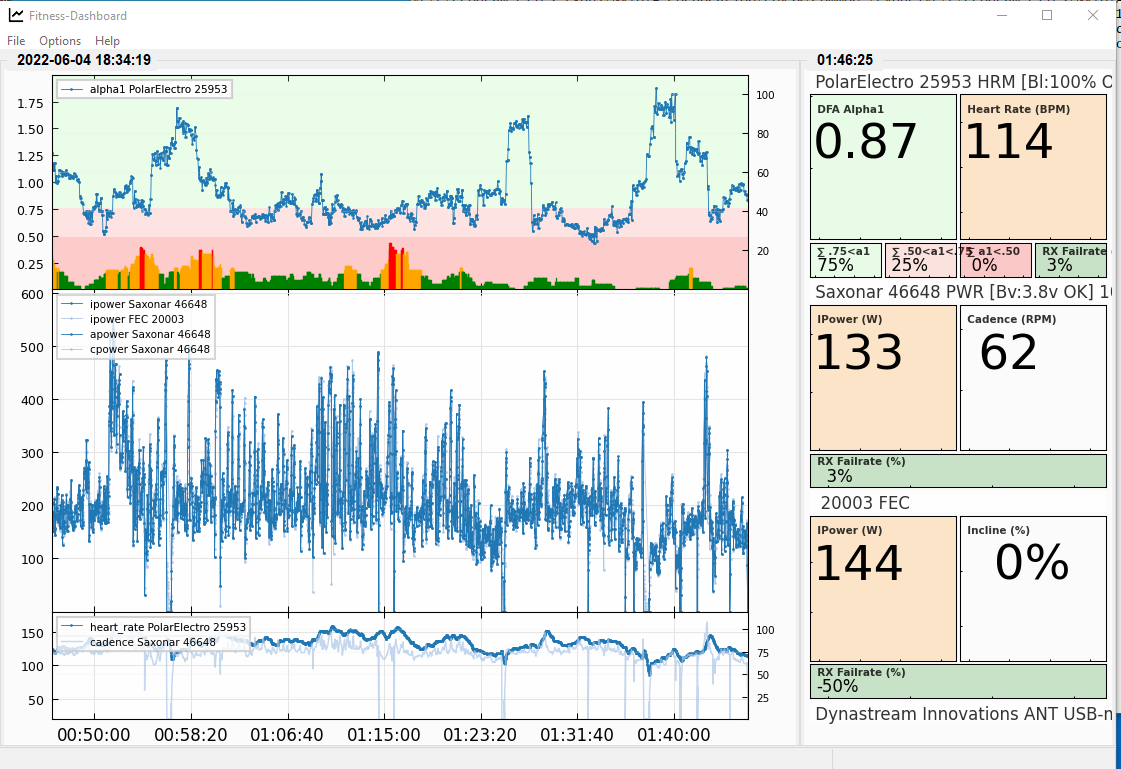
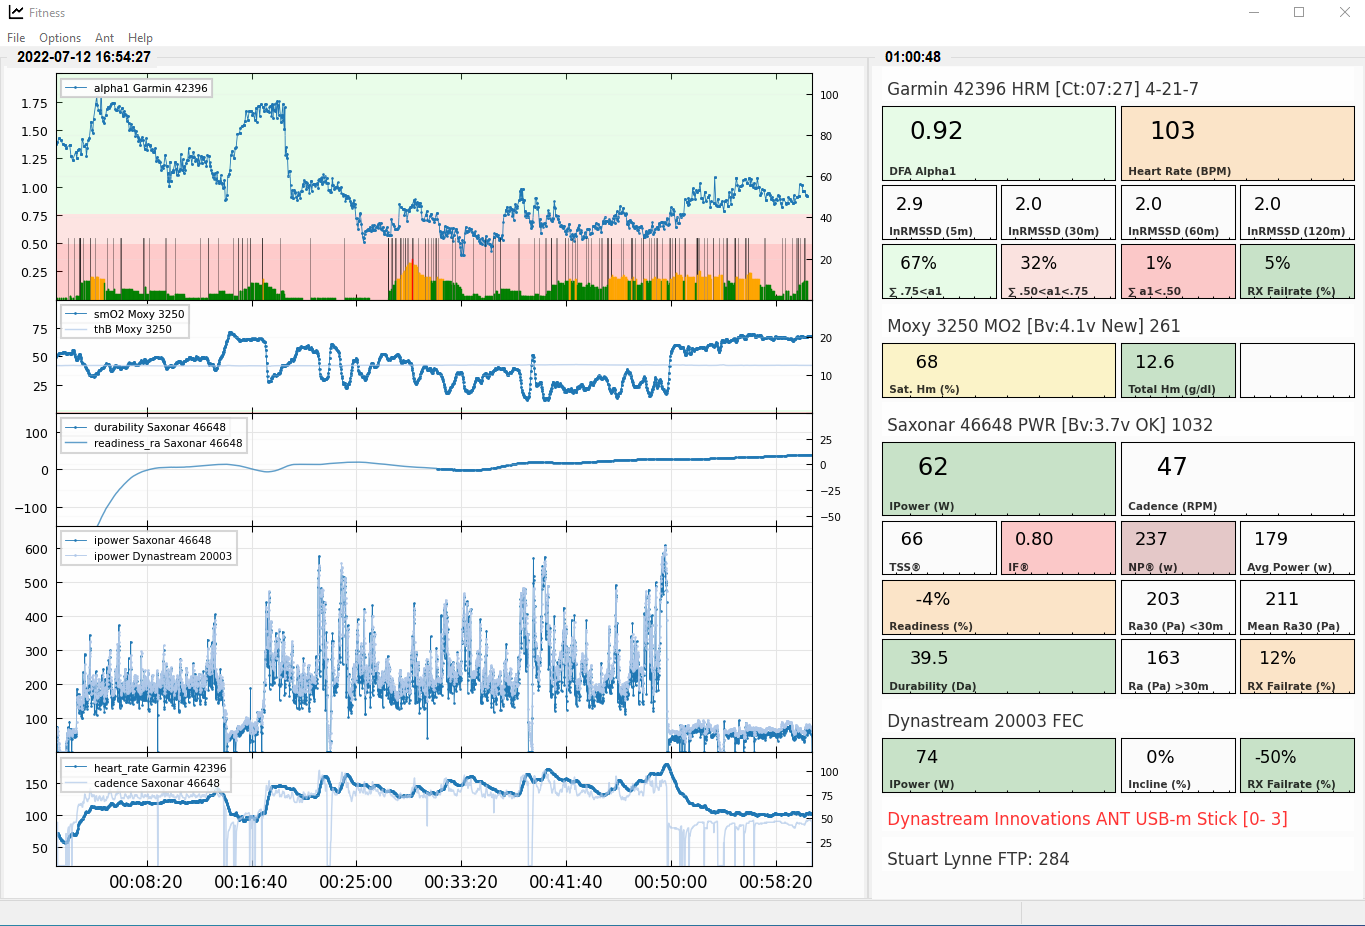
update for v0.17

diff --git a/README-release-notes.md b/README-release-notes.md
@@ -1,13 +1,18 @@
 # Fitness HVR Release Notes
 
 ## v0.17 alpha
+
+N.B. Be sure to update fitness.cfg with your name and ftp.
+
 ### fitness\_dashboard
 - Ant recording - capture Ant data to file
 - athlete - add name and ftp to fitness.cfg
-- check for update 
+- check online for update 
 - implemented AIEndurance Readiness and Durability
 - implemented TSS, IF and NP
 - FE-C - correctly ignore incline when set to invalid value
+- MO2 - support for Ant+ Muscle Oxygen profile, tested with MOXY
+- dynamic chart selection depending on devices available
 
 ## v0.16 alpha
 ### fitness\_dashboard
